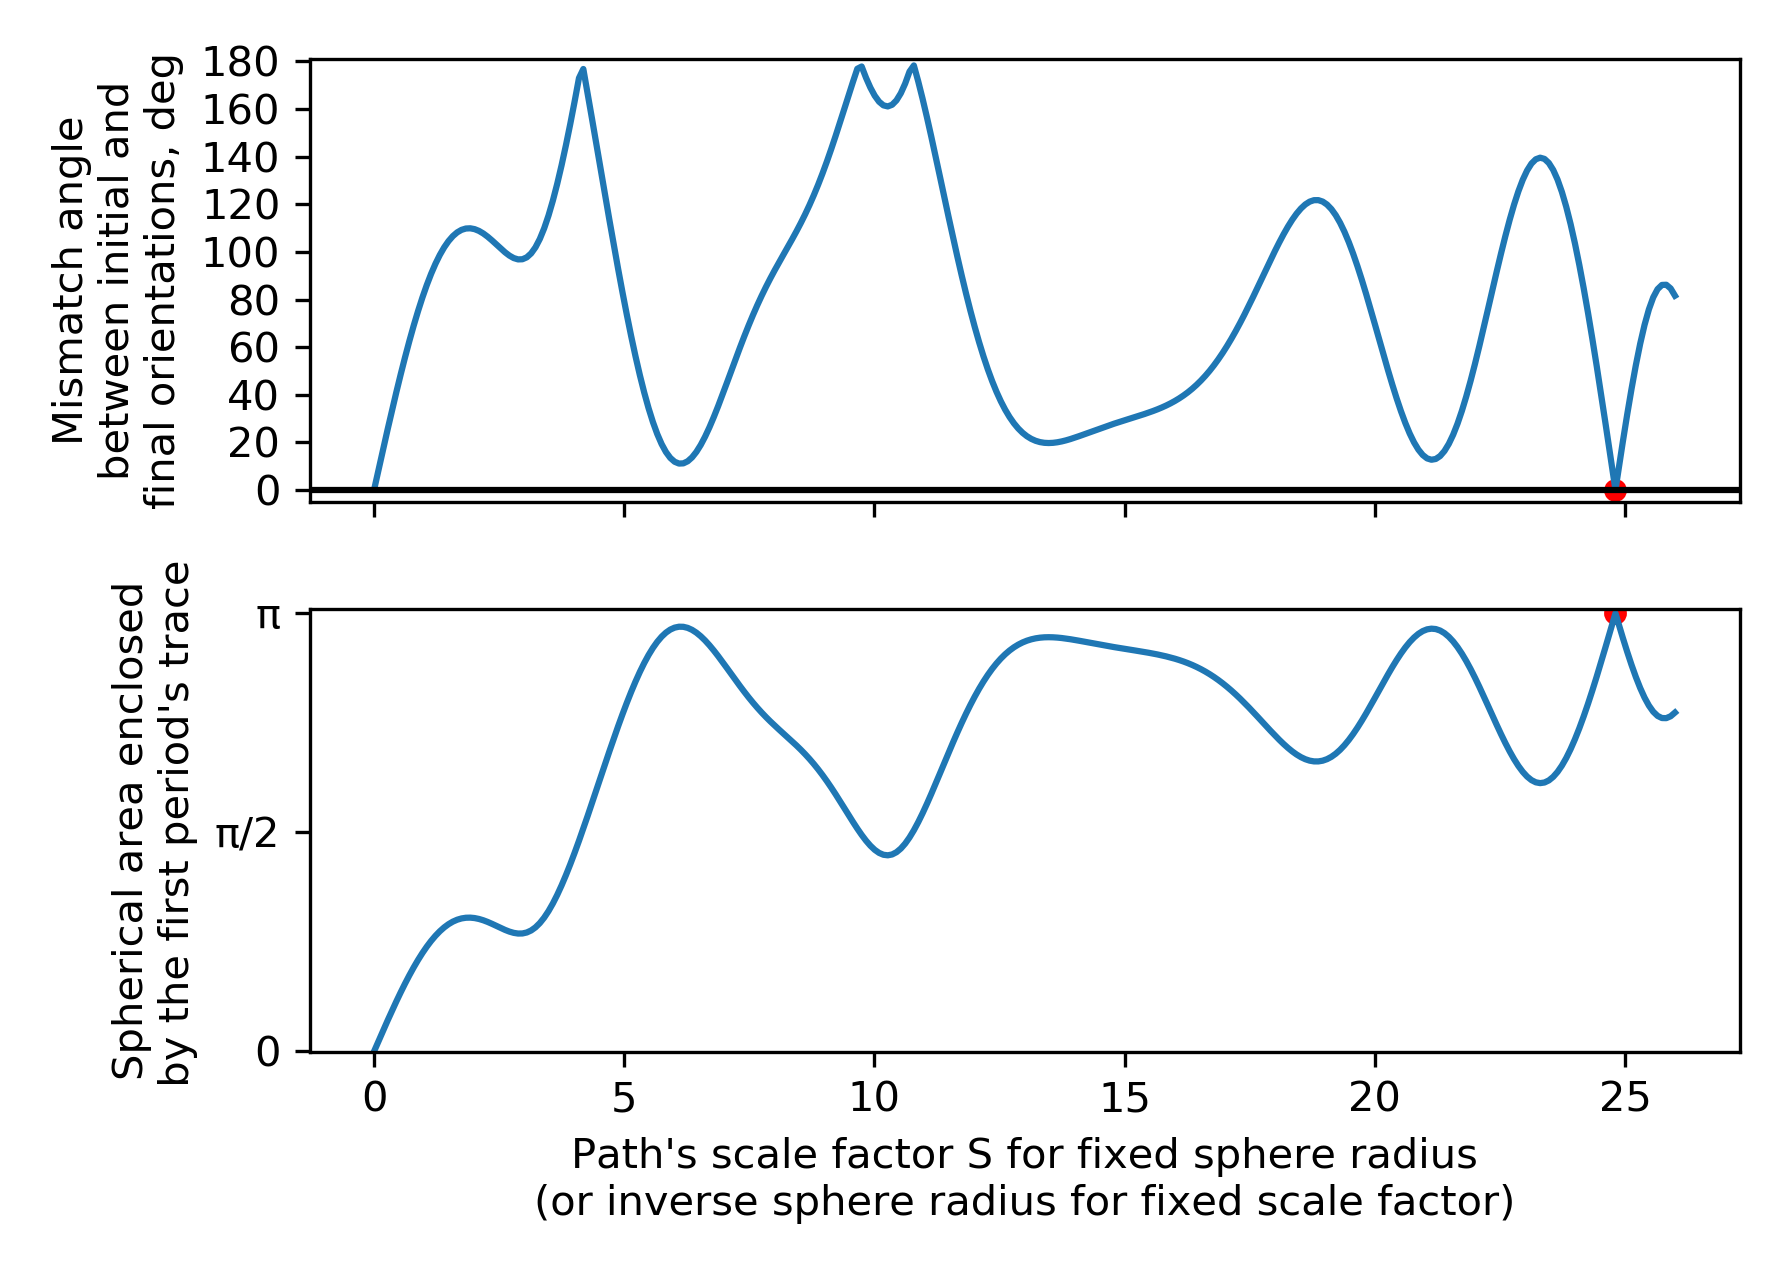
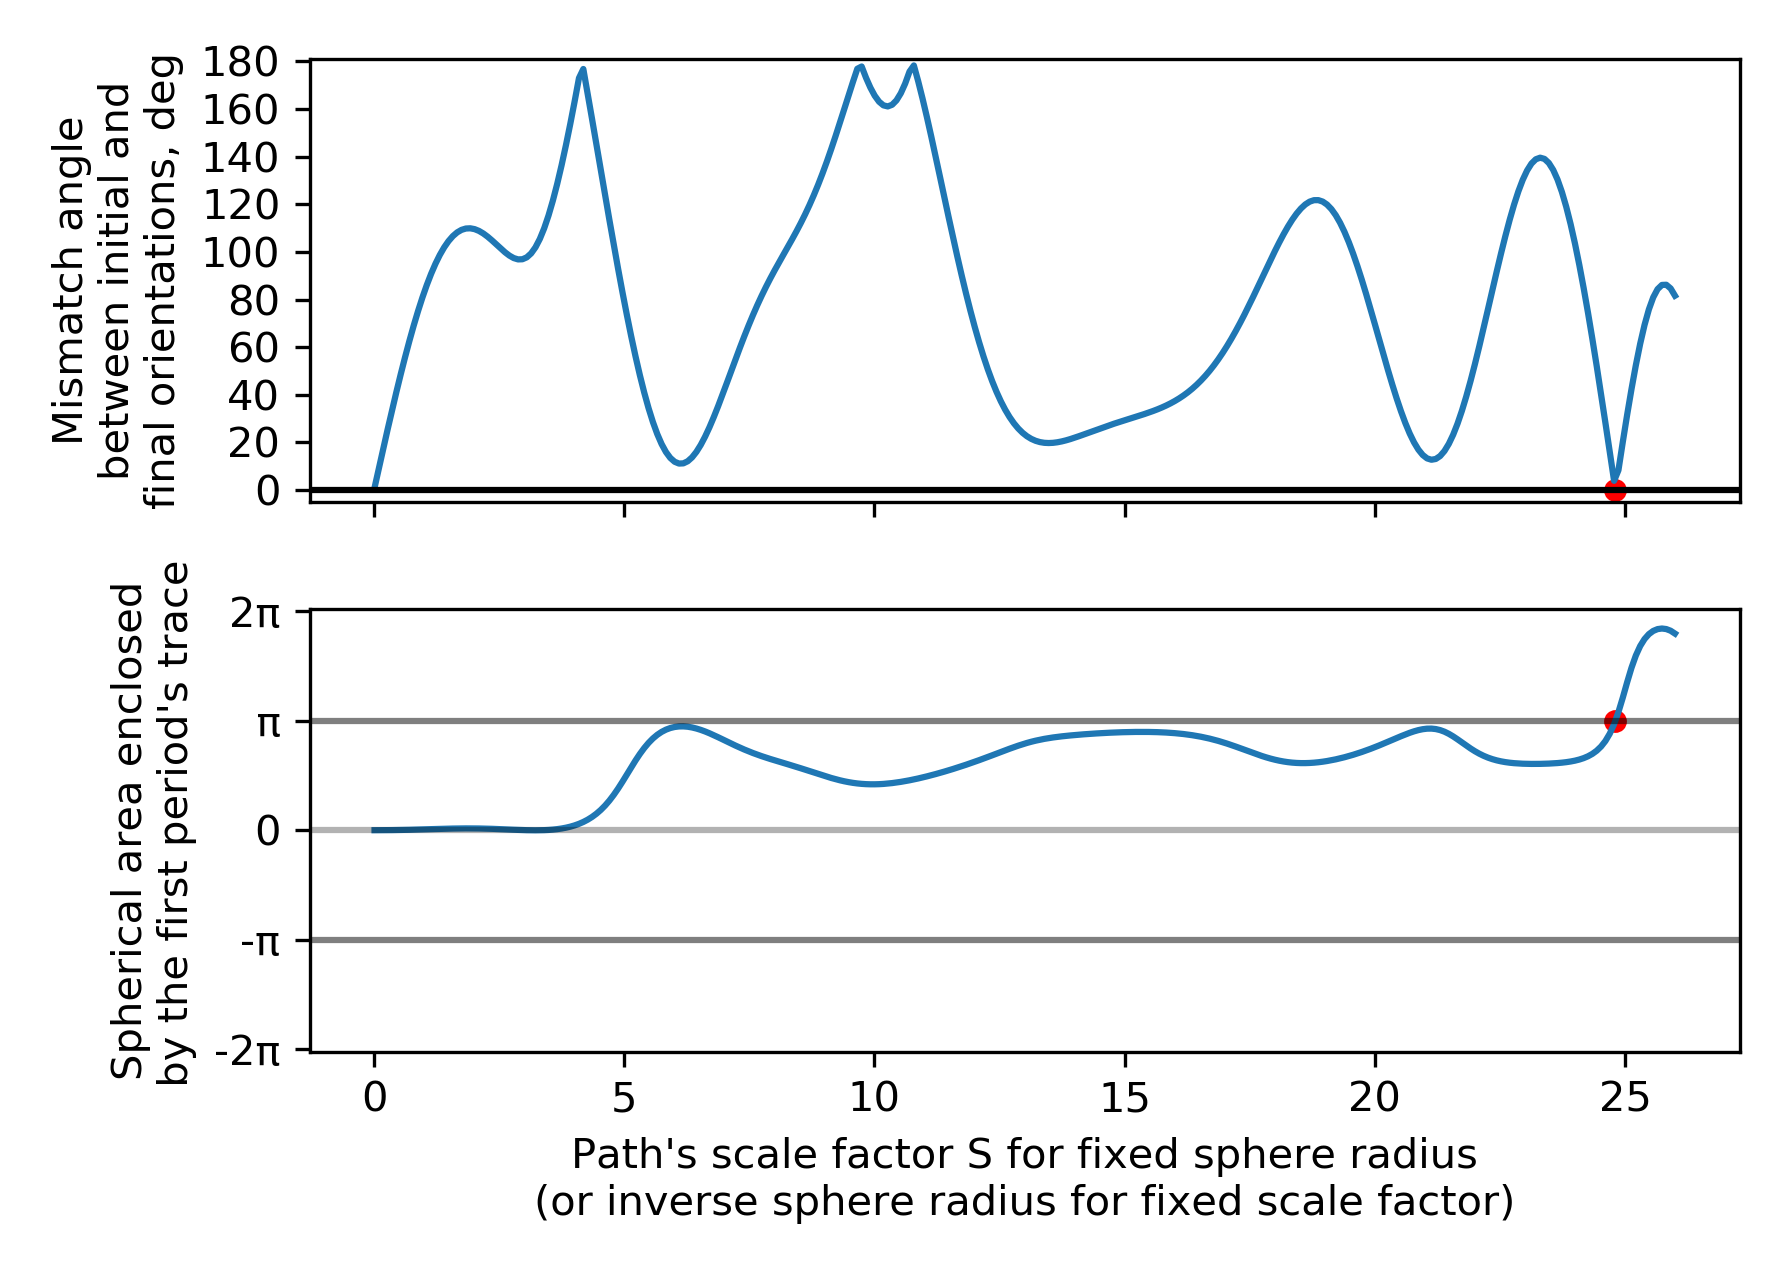
Compute correct Gauss-Bonnet areas

diff --git a/tests/existence-tests/existence-tests.py b/tests/existence-tests/existence-tests.py
@@ -91,6 +91,15 @@ def mismatches_for_all_scales(input_path, minscale=0.01, maxscale=2, nframes = 1
         mismatch_angles.append(mismatch_angle_for_path(input_path_single_section, recursive=False, use_cache=False))
     return sweeped_scales, np.array(mismatch_angles)
 
+def gb_areas_for_all_scales(input_path, minscale=0.01, maxscale=2, nframes = 100):
+    gauss_bonnet_areas = []
+    sweeped_scales = np.linspace(minscale, maxscale, nframes)
+    for frame_id, scale in enumerate(sweeped_scales):
+        print(f'Computing GB_area for scale {scale}')
+        input_path_scaled = input_path * scale
+        gauss_bonnet_areas.append(get_gb_area(input_path_scaled))
+    return sweeped_scales, np.array(gauss_bonnet_areas)
+
 def make_brownian_path(Npath = 150, seed=0, travel_length=0.1, end_with_zero=True):
     np.random.seed(seed)
     angles = np.random.random_sample(Npath)*2*np.pi
@@ -118,7 +127,7 @@ def make_archimedes_spiral(turns, rate_parameter, npoints, noise_amplitude, end_
     plt.plot(xs, ys)
     return np.stack((xs, ys)).T
 
-def make_narrow(npoints, shift=0.05, noise_amplitude=0, end_with_zero=True, seed=0):
+def make_narrow(npoints, shift=0.05, noise_amplitude=0, end_with_zero=True, seed=0, upsample_by=3):
     np.random.seed(seed)
     noise = noise_amplitude * (2 * np.random.random_sample(npoints) - 1)
     xs = np.linspace(0, 2, int(round(npoints/2)))
@@ -129,6 +138,12 @@ def make_narrow(npoints, shift=0.05, noise_amplitude=0, end_with_zero=True, seed
     ys2[1:-1] += shift
     xs = np.concatenate((xs[:-1], xs2))
     ys = np.concatenate((ys[:-1], ys2))
+    xs = xs - xs[0]
+    ys = ys - ys[0]
+
+    upsampled_path = upsample_path(np.stack((xs, ys)).T, by_factor=upsample_by)
+    xs = upsampled_path[:, 0]
+    ys = upsampled_path[:, 1]
 
     spline_xs = np.array([0, 0.5, 1.2, 1.5, 2])
     spline_ys = np.array([0, 0.5, 0.3, -0.3, 0])
@@ -136,6 +151,25 @@ def make_narrow(npoints, shift=0.05, noise_amplitude=0, end_with_zero=True, seed
     ys = ys + s(xs)
     xs = xs - xs[0]
     ys = ys - ys[0]
+    # if end_with_zero:
+    #     ys = ys - xs*(ys[-1] - ys[0])/(xs[-1] - xs[0])
+    plt.plot(xs, ys)
+    return np.stack((xs, ys)).T
+
+def make_sine(npoints, shift=0.05, end_with_zero=True, seed=0):
+    np.random.seed(seed)
+    xs = np.linspace(0, 2*np.pi, npoints)
+    ys = np.sin(xs)
+    xs2 = np.linspace(2, 0, npoints)
+    ys2 = np.sin(xs2)*(1-shift)
+    xs = np.concatenate((xs[:-1], xs2))
+    ys = np.concatenate((ys[:-1], ys2))
+    xs = xs - xs[0]
+    ys = ys - ys[0]
+    # spline_xs = np.array([0, 0.5, 1.2, 1.5, 2])
+    # spline_ys = np.array([0, 0.5, 0.3, -0.3, 0])
+    # s = interpolate.InterpolatedUnivariateSpline(spline_xs, spline_ys)
+    # ys = ys + s(xs)
     # if end_with_zero:
     #     ys = ys - xs*(ys[-1] - ys[0])/(xs[-1] - xs[0])
     plt.plot(xs, ys)
@@ -170,8 +204,12 @@ def test_trajectoid_existence(path_type='brownian', path_for_figs='examples/brow
                                                            npoints=150, noise_amplitude=0.2)
         input_path_single_section = upsample_path(input_path_single_section, by_factor=5)
     elif path_type == 'narrow':
+        # # this one worked with best_scale = 79.35082181975892,
+        # input_path_single_section = make_narrow(npoints=150)
         input_path_single_section = make_narrow(npoints=150)
         # input_path_single_section = upsample_path(input_path_single_section, by_factor=20)
+    elif path_type == 'sine':
+        input_path_single_section = make_sine(npoints=150)
 
     input_path_0 = double_the_path_nosort(input_path_single_section, do_plot=False)
     # plotting with color along the line
@@ -245,9 +283,9 @@ def test_trajectoid_existence(path_type='brownian', path_for_figs='examples/brow
     # sweeped_scales, mismatch_angles = mismatches_for_all_scales(input_path_0, minscale=24, maxscale=25)
     sweeped_scales, mismatch_angles = mismatches_for_all_scales(input_path_0, minscale=minscale, maxscale=maxscale, nframes=nframes)
     solution_scale = best_scale
-    # ii = np.searchsorted(sweeped_scales, solution_scale)
-    # sweeped_scales = np.insert(sweeped_scales, ii, solution_scale)
-    # mismatch_angles = np.insert(mismatch_angles, ii, 0)
+    ii = np.searchsorted(sweeped_scales, solution_scale)
+    sweeped_scales = np.insert(sweeped_scales, ii, solution_scale)
+    mismatch_angles = np.insert(mismatch_angles, ii, 0)
     ax = axarr[0]
     ax.plot(sweeped_scales, np.abs(mismatch_angles)/np.pi*180)
     # ax.plot(sweeped_scales, mismatch_angles / np.pi * 180)
@@ -255,26 +293,51 @@ def test_trajectoid_existence(path_type='brownian', path_for_figs='examples/brow
     ax.scatter([solution_scale], [0], s=20, color='red')
     ax.set_yticks(np.arange(0, 181, 20))
     ax.set_ylim(-5, 181)
-    ax.set_ylabel('Mismatch angle\nbetween initial and\nfinal orientations, deg')
+    ax.set_ylabel('Mismatch angle (deg.)\nbetween initial and\nfinal orientations after\npassing two periods')
     # ax.set_xlabel('Path\'s scale factor S for fixed sphere radius\n(or inverse sphere radius for fixed scale factor)')
     # plt.plot(sweeped_scales, mismatch_angles)
+    plt.show()
 
     ax = axarr[1]
-    sweeped_scales, mismatch_angles = mismatches_for_all_scales(input_path_single_section, minscale=minscale, maxscale=maxscale, nframes=nframes)
+    sweeped_scales, gb_areas = gb_areas_for_all_scales(input_path_single_section, minscale=minscale, maxscale=maxscale, nframes=nframes)
+    # compensation for integer number of 2*pi due to rotation index of the curve
+    gb_area_zero = round(gb_areas[0]/np.pi) * np.pi
+    gb_areas -= gb_area_zero
+
+    # correct for changes of rotation index I upon scaling. Upon +1 or -1 change of I, the integral of geodesic curvature
+    # (total change of direction) increments or decrements by 2*pi
+    additional_rotation_indices = np.zeros_like(gb_areas)
+    additional_rotation_index_here = 0
+    threshold_for_ind = 2*np.pi*0.75
+    for i in range(1, gb_areas.shape[0]):
+        diff_here = gb_areas[i] - gb_areas[i-1]
+        if diff_here < -threshold_for_ind:
+            additional_rotation_index_here -= 1
+        if diff_here > threshold_for_ind:
+            additional_rotation_index_here += 1
+        additional_rotation_indices[i] = additional_rotation_index_here
+
+    gb_areas -= 2 * np.pi * additional_rotation_indices
+
     solution_scale = best_scale
     # ii = np.searchsorted(sweeped_scales, solution_scale)
     # sweeped_scales = np.insert(sweeped_scales, ii, solution_scale)
-    # mismatch_angles = np.insert(mismatch_angles, ii, np.pi)
-    ax.plot(sweeped_scales, np.abs(mismatch_angles))
-    # ax.axhline(y=0, color='black')
-    ax.scatter([solution_scale], [np.pi], s=20, color='red')
-    ax.set_yticks([0, np.pi/2, np.pi])
-    ax.set_yticklabels(['0', 'π/2', 'π'])
-    ax.set_ylim(-0.001, np.pi*1.01)
-    ax.set_ylabel('Spherical area enclosed\n by the first period\'s trace')
-    ax.set_xlabel('Path\'s scale factor S for fixed sphere radius\n(or inverse sphere radius for fixed scale factor)')
+    # mismatch_angles = np.insert(mismatch_angles, ii, np.pi * np.sign(interp1d(sweeped_scales, gb_areas)(solution_scale)))
+    ax.plot(sweeped_scales, gb_areas)
+    ax.axhline(y=np.pi, color='black', alpha=0.5)
+    ax.axhline(y=0, color='black', alpha=0.3)
+    ax.axhline(y=-1*np.pi, color='black', alpha=0.5)
+    ax.scatter([solution_scale], [np.pi * np.sign(interp1d(sweeped_scales, gb_areas)(solution_scale))], s=20, color='red')
+    ax.set_yticks([-2*np.pi, -np.pi, 0, np.pi, 2*np.pi])
+    ax.set_yticklabels(['-2π', '-π', '0', 'π', '2π'])
+    ax.set_ylim(-np.pi*2*1.01, np.pi*2*1.01)
+    ax.set_ylabel('Spherical area $S(\sigma)$\n enclosed by the \nfirst period\'s trace')
+    ax.set_xlabel('Path\'s scale factor $\sigma$ for fixed ball radius $r=1$\n(or $1/r$ for fixed $\sigma=1$)')
     plt.tight_layout()
     fig.savefig(path_for_figs + '/angle-vs-scale.png', dpi=300)
+    plt.show()
+
+    plt.plot(sweeped_scales, additional_rotation_indices, 'o-')
     plt.show()
 
 
@@ -285,7 +348,7 @@ def test_trajectoid_existence(path_type='brownian', path_for_figs='examples/brow
     elif path_type == 'spiral':
         best_scale = minimize_mismatch_by_scaling(input_path_0, scale_range=(0.25, 0.27))
     elif path_type == 'narrow':
-        best_scale = minimize_mismatch_by_scaling(input_path_0, scale_range=(79.3, 79.4))
+        best_scale = minimize_mismatch_by_scaling(input_path_0, scale_range=(79.6, 80)) #scale_range=(79.3, 79.4)
     print(f'Best scale: {best_scale}')
     # Minimized mismatch angle = -2.6439127092433114e-05
     # Best scale: 0.6387022944333781
@@ -320,24 +383,23 @@ if __name__ == '__main__':
     #                           circlealpha=1
     #                           )
 
-    # test_trajectoid_existence(path_type='spiral', path_for_figs='examples/spiral_path_1/figures',
-    #                           best_scale = 0.2588162519798698,
-    #                           nframes=300,
-    #                           maxscale=0.4,
-    #                           figsizefactor=0.85,
-    #                           circle_center=[0, 0],
-    #                           circlealpha=0.5
-    #                           )
-
-
-    test_trajectoid_existence(path_type='narrow', path_for_figs='examples/narrow_1/figures',
-                              best_scale = 79.35082181975892,
-                              nframes=900,
-                              maxscale=85,
+    test_trajectoid_existence(path_type='spiral', path_for_figs='examples/spiral_path_1/figures',
+                              best_scale = 0.2588162519798698,
+                              nframes=30,
+                              maxscale=0.4,
                               figsizefactor=0.85,
-                              circle_center=[0.75, 0],
-                              circlealpha=1
+                              circle_center=[0, 0],
+                              circlealpha=0.5
                               )
+
+    # test_trajectoid_existence(path_type='narrow', path_for_figs='examples/narrow_1/figures',
+    #                           best_scale = 79.83304727542121, #79.35082181975892,
+    #                           nframes=900, #900
+    #                           maxscale=85,
+    #                           figsizefactor=0.85,
+    #                           circle_center=[0.75, 0],
+    #                           circlealpha=1
+    #                           )
 # sweeped_scales, mismatch_angles = mismatches_for_all_scales()
 # plt.plot(sweeped_scales, np.abs(mismatch_angles))
 # plt.show()

diff --git a/tests/test_gauss_bonnet_area.py b/tests/test_gauss_bonnet_area.py
@@ -1,0 +1,50 @@
+import matplotlib.pyplot as plt
+import numpy as np
+from compute_trajectoid import *
+
+def add_interval(startpoint, angle, length, Ns = 10):
+    xs = startpoint[0] + np.linspace(0, length * np.cos(angle), Ns)
+    ys = startpoint[1] + np.linspace(0, length * np.sin(angle), Ns)
+    return np.stack((xs, ys)).T
+
+def make_zigzag(a):
+    angles = [np.pi/4, -np.pi/4]#, -np.pi/4, np.pi/4, -np.pi/4, np.pi/4]
+    # angles = [0, np.pi]
+    lengths = [a, np.pi]#, np.pi/2]#, a, np.pi/2, np.pi/2]
+    input_path = np.array([[0, 0]])
+    tips = [[0, 0]]
+    for i, angle in enumerate(angles):
+        startpoint = input_path[-1,:]
+        new_section = add_interval(startpoint, angle, lengths[i])
+        input_path = np.concatenate((input_path, new_section[1:]), axis=0)
+        tips.append(new_section[-1])
+    return input_path, np.array(tips)
+
+input_path, tips = make_zigzag(np.pi*1.0000001)
+fig = plt.figure(dpi=300)
+plt.plot(input_path[:, 0], input_path[:, 1], '-o', color='black', alpha=0.5)
+plt.plot(tips[:, 0], tips[:, 1], 'o', color='black', alpha=0.5)
+plt.axis('equal')
+plt.show()
+
+area = get_gb_area(input_path)
+# core_radius = 1
+# fig = mlab.figure(size=(1024, 768), \
+#             bgcolor=(1, 1, 1), fgcolor=(0.5, 0.5, 0.5))
+# better_mayavi_lights(fig)
+# tube_radius = 0.01
+# plot_sphere(r0=core_radius - tube_radius, line_radius=tube_radius / 4)
+
+
+# for scale_factor in np.linspace(0.8, 1.05, 10):
+#     sphere_trace = trace_on_sphere(input_path, kx=scale_factor, ky=scale_factor)
+#     l = mlab.plot3d(sphere_trace[:, 0], sphere_trace[:, 1], sphere_trace[:, 2], color=(0, 0, 1),
+#                     tube_radius=tube_radius, opacity=0.3)
+#     colors = [(1, 0, 0), (0, 1, 0)]
+#     for i, point_here in enumerate([sphere_trace[0], sphere_trace[-1]]):
+#         mlab.points3d(point_here[0], point_here[1], point_here[2], scale_factor=0.05, color=colors[i])
+
+# # data = make_path(xlen=9.5, r=2.82, Npath=150)
+# data = make_path(2*np.pi, 0.5, Npath=150)
+# # # data = make_path(xlen=9.5, r=2.5)
+# trace_on_sphere(data, kx=0.5, ky=0.5, core_radius=1, do_plot=True)

diff --git a/compute_trajectoid.py b/compute_trajectoid.py
@@ -1078,3 +1078,33 @@ def double_the_path(input_path_0, do_plot=False, do_sort=True):
         plt.show()
 
     return sort_path(input_path_0)
+
+
+def get_gb_area(input_path):
+    sphere_trace = trace_on_sphere(input_path, kx=1, ky=1, do_plot=False)
+
+    # get total change of angle
+    extended_trace = np.vstack((sphere_trace, sphere_trace[0, :], sphere_trace[1, :]))
+
+    # angle change between consecutive arcs
+    angles = []
+    sum_angle = 0
+    for i in range(extended_trace.shape[0] - 2):
+        first_point = extended_trace[i, :]
+        central_point = extended_trace[i + 1, :]
+        last_point = extended_trace[i + 2, :]
+        first_arc_axis = np.cross(first_point, central_point)
+        second_arc_axis = np.cross(central_point, last_point)
+        first_arc_axis = first_arc_axis / np.linalg.norm(first_arc_axis)
+        second_arc_axis = second_arc_axis / np.linalg.norm(second_arc_axis)
+        signed_sine = np.dot(np.cross(first_arc_axis, second_arc_axis),
+                             central_point)
+        signed_cosine = np.dot(first_arc_axis, second_arc_axis)
+        angle = np.arctan2(signed_sine, signed_cosine)
+        angles.append(angle)
+        sum_angle += angle
+        gauss_bonnet_area = 2 * np.pi - sum_angle
+    # print(angles)
+    print(f'Sum angle = {sum_angle / np.pi} pi')
+    print(f'Area = {gauss_bonnet_area / np.pi} pi')
+    return gauss_bonnet_area
